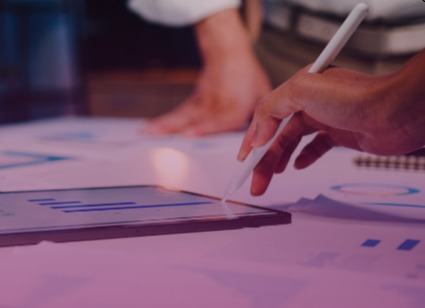
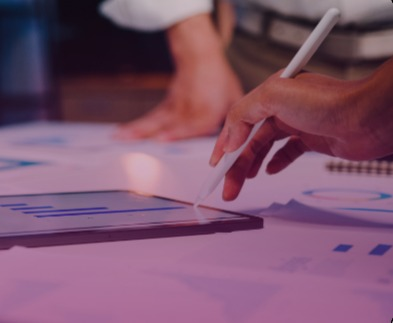
Retocando

diff --git a/index.html b/index.html
@@ -12,7 +12,7 @@
     <header class="header">
 
     <!-- Logo -->
-    <a id="Logo"> <img src="images/logoGTI.svg" alt="Logo de la empresa"></a>
+    <a id="Logo" href="index.html"> <img src="images/logoGTI.svg" alt="Logo de la empresa"></a>
     <!-- Fin logo -->
 
     <!-- Opcion menu -->
@@ -20,13 +20,13 @@
     <!-- Fin opcion menu -->
 
     <!-- Icono del login -->
-    <button type="submit" id="botonLogin" value="botonLogin"><a href="#">Log in</a></button>
+    <button type="submit" id="botonLogin" value="botonLogin"><a href="Login.html">Log in</a></button>
     <!-- Fin Icono del login -->
 
     <!-- Menu -->
     <nav id="menu-principal">
         <ul>
-            <li><a href="#informacion">Información</a></li>
+            <li><a href="#Nostros">Acerca de Nosostros</a></li>
             <li><a href="#servicios">Servicios</a></li>
             <li><a href="#contacto">Contacto</a></li>
         </ul>
@@ -40,21 +40,11 @@
     <h1 id="eslogan">Nos adaptamos a tus necesidad para ofrecer las mejores soluciones</h1>
 
     <!-- Fin eslogan -->
-    
-    <!-- Log in de la pagina -->
-    <form class="Login" onsubmit="">
-        <label for="usuario">Usuario</label>
-        <input id="usuario" type="text" name="usuario" placeholder="Usuario" required>
-        <label for="contraseña">Contraseña</label>
-        <input id="contraseña" type="password" name="contraseña" placeholder="Contraseña" required>
-        <button id="enviar-login" type="submit" name="Enviar">Iniciar</button>
-    </form> 
-    <!-- Fin Log in -->
 
     <!-- Información -->
-    <section class="titulos">
+    <section class="titulos" id="Nostros">
 
-        <h1 class="titulo">Información</h1>
+        <h1 class="titulo">Acerca de nosotros</h1>
 
         <p class="texto">GTI es una startup joven con una gran devoción por la tecnología y enfocada en desarrollar soluciones tecnológicas que facilite a nuestros clientes su dia a dia.</p>
 
@@ -63,11 +53,11 @@
     <!-- Fin información -->
     
     <!-- Imagen Informacion -->
-    <img id="Foto_mujer_presentar" src="/images/jefa.jpeg">
+    <img id="Foto_mujer_presentar" src="/images/jefa.jpeg" alt="Foto_presentar">
     <!-- Fin Imagen Informacion -->
     
     <!-- Servicios -->
-    <section class="titulos">
+    <section class="titulos" id="servicios">
 
         <h1 class="titulo">Servicios</h1>
 

diff --git a/Login.html b/Login.html
@@ -1,0 +1,43 @@
+<!DOCTYPE html>
+<html lang="en">
+<head>
+    <meta charset="UTF-8">
+    <meta http-equiv="X-UA-Compatible" content="IE=edge">
+    <meta name="viewport" content="width=device-width, initial-scale=1.0">
+    <link type="text/css" rel="stylesheet" href="css/main.css">
+    <title>Gtistartup-Login</title>
+</head>
+<body>
+    <header>
+    <!-- Logo -->
+    <a id="Logo" href="index.html"> <img src="images/logoGTI.svg" alt="Logo de la empresa"></a>
+    <!-- Fin logo -->
+
+    <!-- Opcion menu -->
+    <img id="Icono_Menu" src="/images/Menu.jpeg" alt="Icono del Menu">
+    <!-- Fin opcion menu -->
+
+    <!-- Icono del login -->
+    <button type="submit" id="botonLogin" value="botonLogin"><a href="Login.html">Log in</a></button>
+    <!-- Fin Icono del login -->
+
+    <!-- Menu -->
+    <nav id="menu-principal">
+        <ul>
+            <li><a href="#informacion">Información</a></li>
+            <li><a href="#servicios">Servicios</a></li>
+            <li><a href="#contacto">Contacto</a></li>
+        </ul>
+    </nav>
+    <!-- Fin menu -->
+
+    </header>
+    <form class="Login" action="index.html">
+        <label for="usuario">Usuario</label>
+        <input id="usuario" type="text" name="usuario" placeholder="Usuario" required>
+        <label for="contraseña">Contraseña</label>
+        <input id="contraseña" type="password" name="contraseña" placeholder="Contraseña" required>
+        <button id="enviar-login" type="submit" name="Enviar">Iniciar</button>
+    </form>
+</body>
+</html>

diff --git a/css/main.css b/css/main.css
@@ -3,7 +3,7 @@
     max-width: 116px;
     max-height: 48px;
 }
-#Icono_Menu{
+#Icono_Menu{        
     max-width: 30px;
     max-height: 20px;
     float: right;
@@ -17,7 +17,7 @@
 }
 #menu-principal ul{
     list-style: none;
-    padding-inline-start: none;
+    padding: 0px;
 }
 #menu-principal a{
     font-weight: bold;
@@ -29,16 +29,17 @@
     border-bottom: 1px solid white;
 }
 #eslogan{
-    width: 375px;
-    height: 321px;
+    width: 384px;
+    height: 375px;
     color: white;
     display: flex;
-    background: url("../images/morado.jpeg");
+    background: url("../images/Morado.jpeg");
     background-size: cover;
+    margin: 0%;
     align-items: center;
     text-align: center;
     font-weight: bold;
-    font-size: 20px;
+    font-size: 22px;
 }
 #botonLogin{
     float: right;
@@ -63,8 +64,11 @@
     margin-left: auto;
     margin-right: auto;
 }
+.Login{
+    text-decoration: none;
+}
 #Foto_mujer_presentar{
-    width: 375px;
+    width: 384px;
     height: 252px;
 }
 section{
@@ -74,19 +78,18 @@ section{
     margin-right: 36px;
 }
 /* Fin Header */
-#titulo{
-    font-size: 15px;
-    font-weight: bold;
+.titulo{
+    color: #810052;
 }
-#tituloContacto{
+.tituloContacto{
     text-align: center;
 }
+
 #botonContacto{
     background-color: #810052;
     display: block;
     margin-left: auto;
     margin-right: auto;
-    background-color: #810052;
 }
 #botonContacto a{
     color: white;
